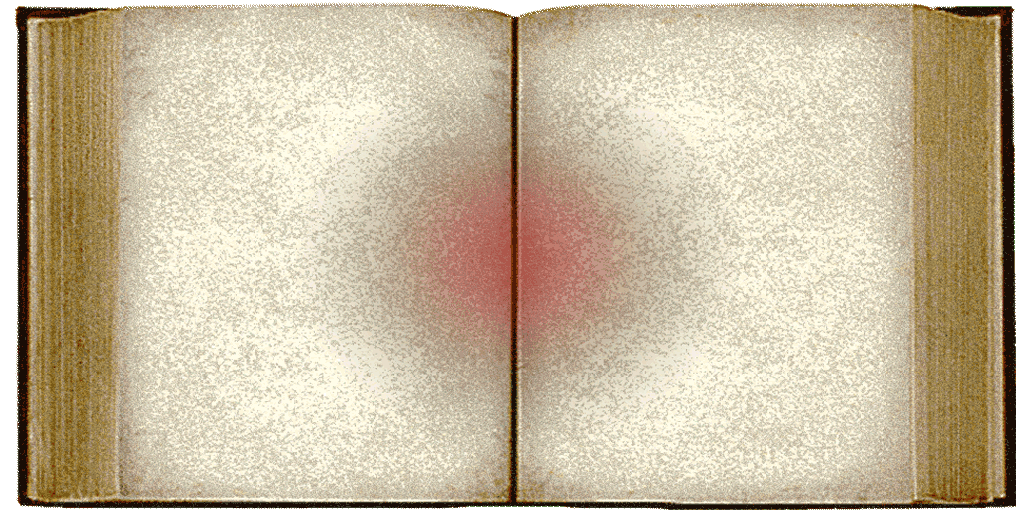
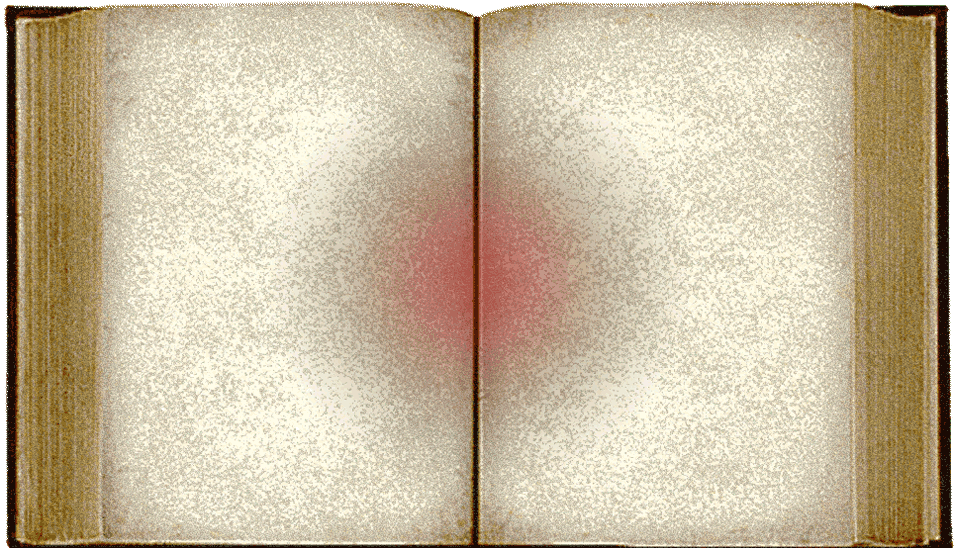
Design changes in StartScreen.

diff --git a/src/br/edu/ifsp/pds/shadowstruggles/screens/StartScreen.java b/src/br/edu/ifsp/pds/shadowstruggles/screens/StartScreen.java
@@ -58,8 +58,9 @@ public class StartScreen extends BaseScreen {
 
 		tableTexture = new Image(this.getSkin().getDrawable("table_texture"));
 		book = new Image(this.getSkin().getDrawable("book"));
-		book.setX(book.getX() - 10);
-		book.setY(book.getY() + 20);
+		book.setScale(0.9f);
+		book.setX(book.getX() + 50);
+		book.setY(book.getY() + 10);
 		beaker = new Image(this.getSkin().getDrawable("beaker"));
 		candle = new Image(this.getSkin().getDrawable("candle"));
 		tripod = new Image(this.getSkin().getDrawable("tripod"));
@@ -118,14 +119,14 @@ public class StartScreen extends BaseScreen {
 		});
 
 		Table table = new Table();
-		table.defaults().padTop(50).width(310).height(200);
+		table.defaults().padTop(30).width(150).height(130);
 
 		if (game.getMode() == RunMode.DEBUG)
 			table.debug();
 
-		table.add(beaker).left();
-		table.add(candle);
-		table.add(tripod);
+		table.add(beaker).left().padRight(270);
+		table.add(candle).width(190);
+		table.add(tripod).padLeft(250);
 		table.row();
 
 		Table menu = new Table();
